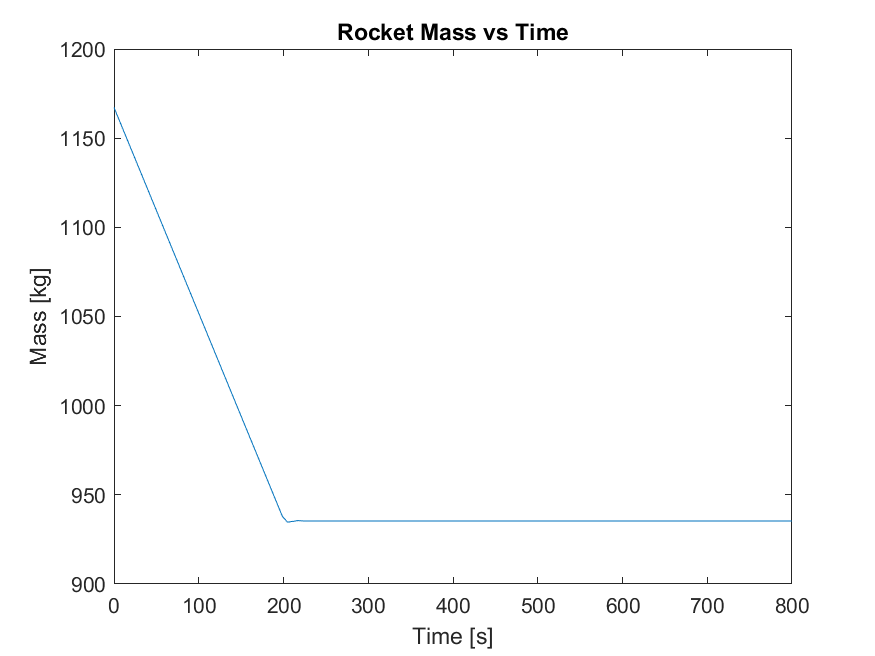
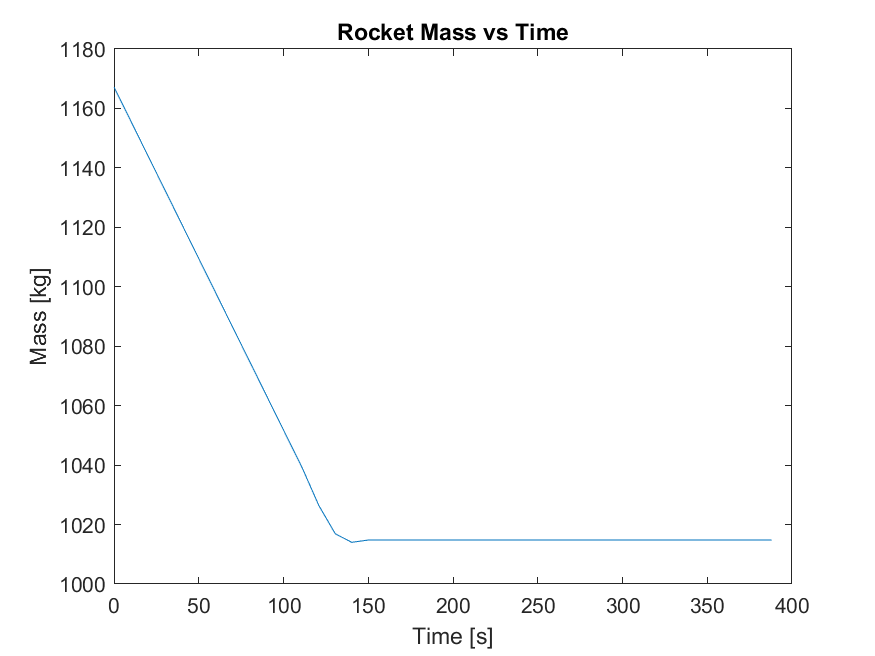
Tuned P3
Tuned P3

diff --git a/Project 3/Problem3.m b/Project 3/Problem3.m
@@ -2,48 +2,42 @@
 clear, clc, close all
 
 % Constants
-tBurn     = 400;    %(s)
-tSim      = 400;    
+tBurn     = 150;    %(s)
+tSim      = 415;    
 mdot      = -1.154;  %(kg/s)
-area      = 0.5;    %(m^2)
 
 % Initial Conditions
 v0        = 1;      % Initial velocity (m/s)
 h0        = 0;      % Initial altitude (m)
 x0        = 0;      % Initial hor. pos.(m)
 m0        = 1167.2; % Initial mass (kg)
-fd0       = 0;      % Initial drag force (N)
-cd0       = 0;      % Initial drag coefficient
-c0        = 0;      % Initial speed of sound (m/s)
-rho0      = 0;      % Initial air density (kg/m^3)
-th0       = 89;     % Initial body angle (deg)
+th0       = 88;     % Initial body angle (deg)
 
 % ODE Solver
 [t, x] = ode45(@(t,x) flight(t, x, mdot, tBurn), [0, tSim], [h0; v0; m0; x0; th0;]);
 
-% for i = 1:length(t)
-%     [~, fd(i), rho(i), cd(i), c(i), T(i)] = flight(t(i), x(i,:), mdot, tBurn);
-% end
-% 
-% 
-% fd   = fd';
-% rho  = rho';
-% cd   = cd';
-% c    = c';
-% mach = vel./c;
+for i = 1:length(t)
+    [~, fd(i), rho(i), cd(i), c(i), T(i)] = flight(t(i), x(i,:), mdot, tBurn);
+end
+
+
+fd   = fd';
+rho  = rho';
+cd   = cd';
+c    = c';
 alt  = x(:,1);
 vel  = x(:,2);
 m    = x(:,3);
 hor  = x(:,4);
 th   = x(:,5);
-
+mach = vel./c;
 
 figure;
 yyaxis left
 plot(t, alt)
 ylabel('Altitude [m]')
 yyaxis right
-plot(t, mach)
+plot(t, vel)
 ylabel('Mach Number [-]');
 xlabel('Time [s]')
 title('Flight Profile')
@@ -57,11 +51,15 @@ grid on
 title('Rocket Heading')
 saveas(gcf, 'Figures/heading.png');
 
+figure;
+plot(t, th)
+
 function [dxdt, fd, rho, cd, c, T] = flight(t, x, mdot, tBurn)
     
-    T = 40000;
+    T = 53000;
     A = 0.5;
     g = 9.81;
+    m_cst = 40.1;
 
     h = x(1); 
     v = x(2);
@@ -81,8 +79,8 @@ function [dxdt, fd, rho, cd, c, T] = flight(t, x, mdot, tBurn)
     
     dh = v*sind(th);
     dx = v*cosd(th);
-    dv = (T - fd) / m - g*sind(th);
-    dth = -(g*cosd(th))/v; 
+    dv = (T + fd) / m - g*sind(th);
+    dth = m_cst*(-(g*cosd(th))/v);
     dxdt = [dh; dv; dm; dx; dth;];
  
 end 

diff --git a/Project 3/Problem2.m b/Project 3/Problem2.m
@@ -3,20 +3,14 @@
 clear, clc, close all
 
 % Constants
-thrustAvg = 174000; %(N)
-tBurn     = 200;    %(s)
-tSim      = 800;    
+tBurn     = 130;    %(s)
+tSim      = 388;    
 mdot      = -1.154;  %(kg/s)
-area      = 0.5;    %(m^2)
 
 % Initial Conditions
 v0        = 0;      % Initial velocity (m/s)
 h0        = 0;      % Initial altitude (m)
 m0        = 1167.2; % Initial mass (kg)
-fd0       = 0;      % Initial drag force (N)
-cd0       = 0;      % Initial drag coefficient
-c0        = 0;      % Initial speed of sound (m/s)
-rho0      = 0;      % Initial air density (kg/m^3)
 
 % ODE Solver
 [t, x] = ode45(@(t,x) flight(t, x, mdot, tBurn), [0, tSim], [h0; v0; m0;]);
@@ -63,8 +57,8 @@ saveas(gcf, 'Figures/P2Mass.png');
 
 
 function [dxdt, fd, rho, cd, c, T] = flight(t, x, mdot, tBurn)
-    
-    T = 17400;
+
+    T = 52000;
     A = 0.5;
 
     h = x(1); 
@@ -83,7 +77,7 @@ function [dxdt, fd, rho, cd, c, T] = flight(t, x, mdot, tBurn)
     end 
     
     dh = x(2);
-    dv = (T - fd) / m - 9.81;
+    dv = (T + fd) / m - 9.81;
     dxdt = [dh; dv; dm;];
  
 end 

diff --git a/Project 3/Problem1.m b/Project 3/Problem1.m
@@ -26,6 +26,7 @@ title('Ball Vertical Position and Velocity vs. Time')
 legend({'Position','Velocity','Max Height = 2038.7m'})
 saveas(gcf, 'Figures/P1ball.png');
 
+fprintf('Time till impact: %s [s]',tZeroH(2))
 
 function dxdt = ode(t,x)
     dx = x(2);

diff --git a/Project 3/drag.m b/Project 3/drag.m
@@ -1,5 +1,8 @@
 function fd = drag(rho,v,Cd,A)
 
-    fd = (-1/2)*rho*v^2*Cd*A;
-
+    if v < 0
+        fd = (1/2)*rho*v^2*Cd*A;
+    else
+        fd = (-1/2)*rho*v^2*Cd*A;
+    end
 end 

diff --git a/Project 3/test.m b/Project 3/test.m
@@ -1,0 +1,1 @@
+[qq, zz] = atmosmodel(0)
